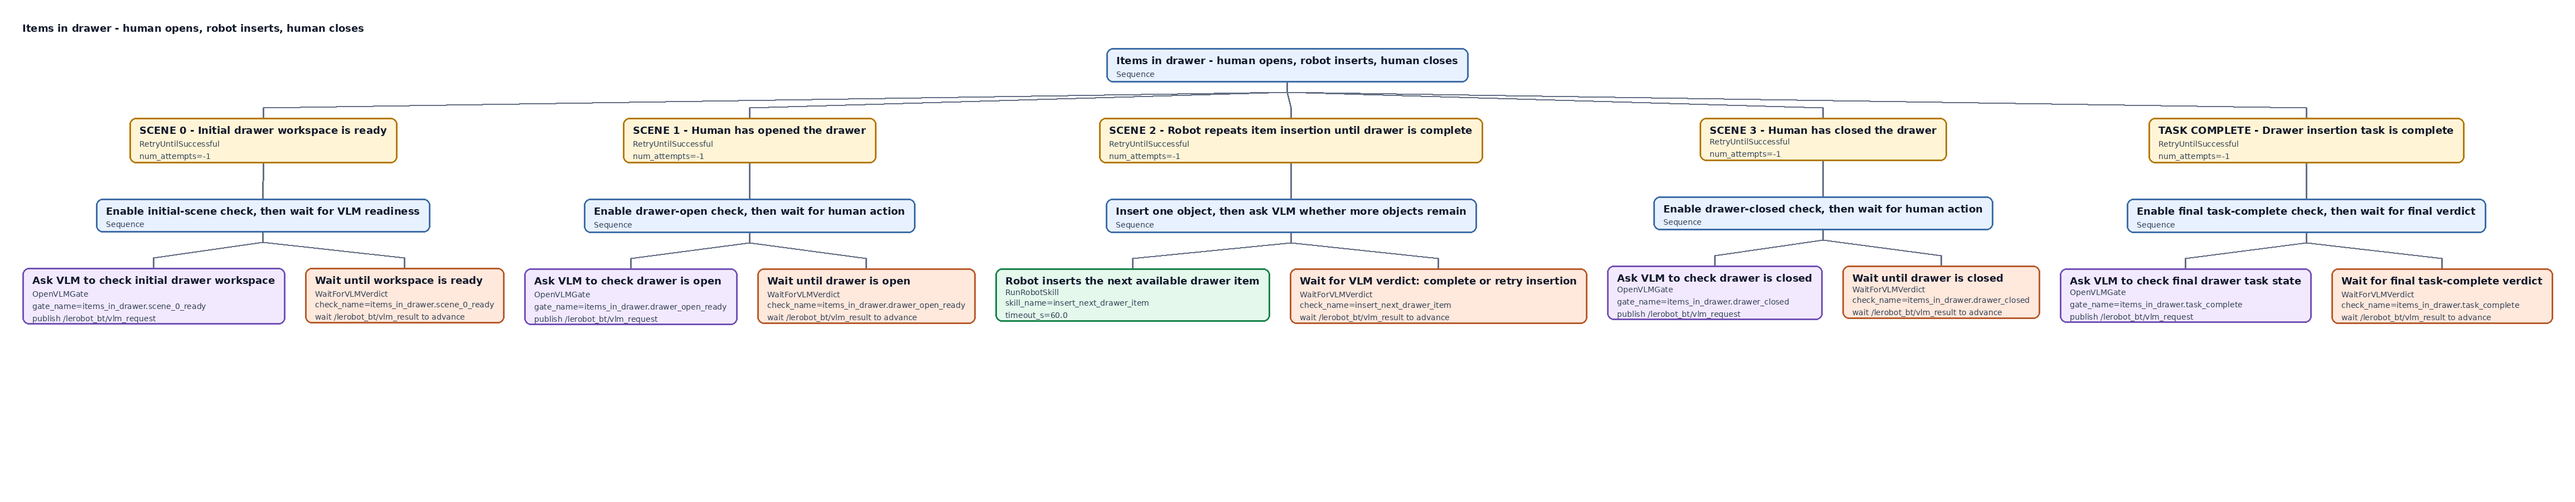
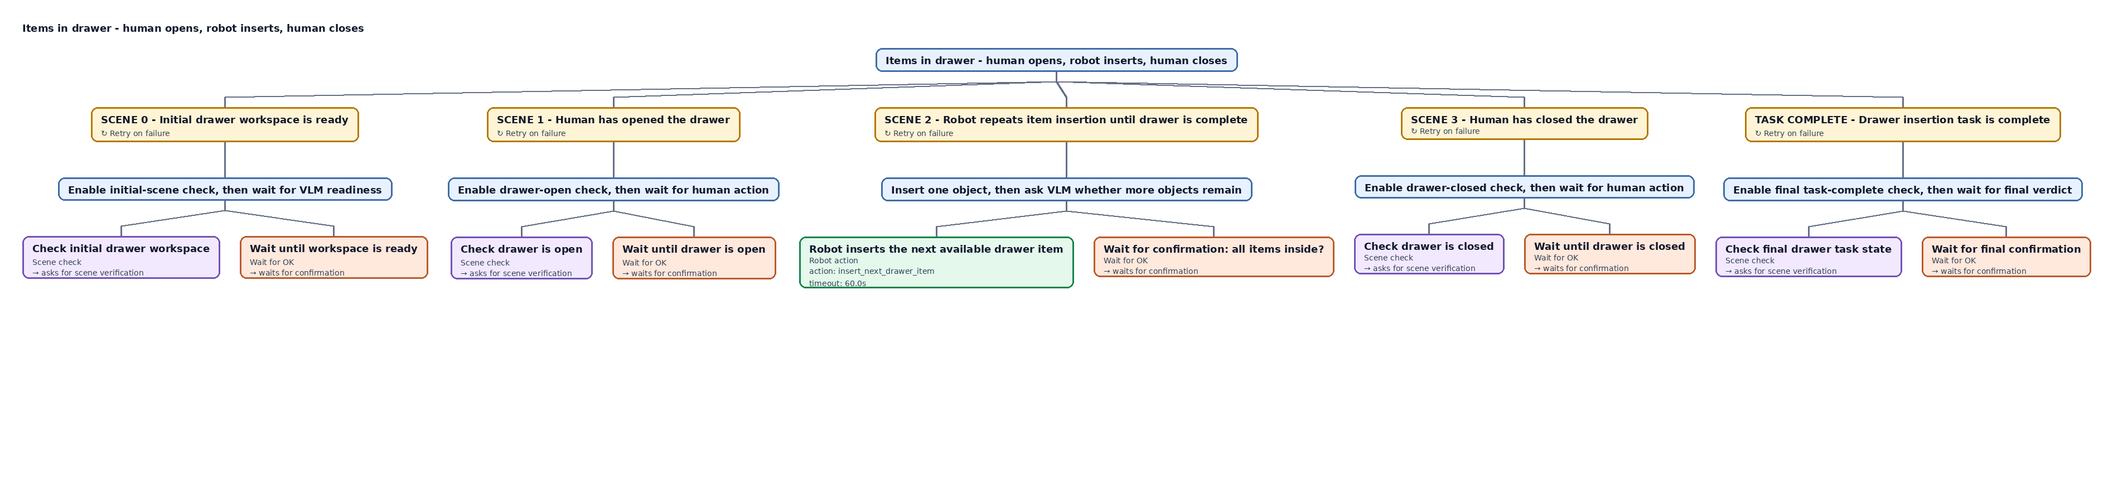
updated README.md

Changed region(s): [[0.0, 0.0933, 0.9966, 0.6533], [0.0, 0.0311, 0.1869, 0.0622]]

diff --git a/src/lerobot_bt_runtime_cpp/tools/render_bt_diagrams.py b/src/lerobot_bt_runtime_cpp/tools/render_bt_diagrams.py
@@ -36,6 +36,23 @@ NODE_STYLE = {
     "WaitForVLMVerdict": ("#ffe8dc", "#b85c2e"),
 }
 DEFAULT_STYLE = ("#f6f7f9", "#667085")
+
+# Human-friendly labels that replace technical C++ node-type names in rendered diagrams.
+TAG_HUMAN_LABEL: dict[str, str] = {
+    "Sequence": "",
+    "RetryUntilSuccessful": "↻ Retry on failure",
+    "OpenVLMGate": "Scene check",
+    "WaitForVLMVerdict": "Wait for OK",
+    "RunRobotSkill": "Robot action",
+}
+
+# Human-friendly attribute names shown in diagram nodes.
+ATTR_HUMAN_LABEL: dict[str, str] = {
+    "skill_name": "action",
+    "timeout_s": "timeout",
+    "num_attempts": "max tries",
+}
+
 BOX_RADIUS = 12
 BOX_GAP_X = 36
 BOX_GAP_Y = 64
@@ -97,18 +114,40 @@ def resolve_value(raw_value: str, profile: dict[str, str]) -> str:
 
 
 def node_lines(element: ElementTree.Element, profile: dict[str, str]) -> list[str]:
-    """Build plain-text lines shared by Graphviz and Pillow renderers."""
-    rows = [element.attrib.get("name", element.tag), element.tag]
+    """Build plain-text lines shared by Graphviz and Pillow renderers.
 
-    for key in ("skill_name", "gate_name", "check_name", "timeout_s", "num_attempts"):
-        if key in element.attrib:
-            value = resolve_value(element.attrib[key], profile)
-            rows.append(f"{key}={value}")
+    Technical C++ node-type names and ROS-specific details are replaced with
+    human-friendly labels so that every diagram reads like a natural task
+    description.
+    """
+    rows = [element.attrib.get("name", element.tag)]
 
+    # Second line: human-friendly node-type label (hidden for Sequence).
+    human_tag = TAG_HUMAN_LABEL.get(element.tag, element.tag)
+    if human_tag:
+        rows.append(human_tag)
+
+    # Show only the skill/action name (not internal gate/checkpoint keys).
+    if "skill_name" in element.attrib:
+        value = resolve_value(element.attrib["skill_name"], profile)
+        rows.append(f"action: {value}")
+
+    # Timeout – only when it carries information.
+    if "timeout_s" in element.attrib:
+        value = resolve_value(element.attrib["timeout_s"], profile)
+        rows.append(f"timeout: {value}s")
+
+    # Max attempts – skip the "-1" (infinite) placeholder.
+    if "num_attempts" in element.attrib:
+        value = resolve_value(element.attrib["num_attempts"], profile)
+        if value != "-1":
+            rows.append(f"max tries: {value}")
+
+    # Human-friendly descriptions instead of ROS topic internals.
     if element.tag == "OpenVLMGate":
-        rows.append("publish /lerobot_bt/vlm_request")
+        rows.append("→ asks for scene verification")
     if element.tag == "WaitForVLMVerdict":
-        rows.append("wait /lerobot_bt/vlm_result to advance")
+        rows.append("→ waits for confirmation")
 
     return rows
 

diff --git a/src/lerobot_bt_set_breakfast_table_README.md b/src/lerobot_bt_set_breakfast_table_README.md
@@ -87,18 +87,18 @@ ros2 topic pub --once /lerobot_bt/vlm_result std_msgs/msg/String \
   "{data: '{\"skill_name\":\"place_cup\",\"attempt_id\":0,\"status\":\"SUCCESS\",\"message\":\"cup placed\"}'}"
 ```
 
-Robot places bowl:
-
-```bash
-ros2 topic pub --once /lerobot_bt/vlm_result std_msgs/msg/String \
-  "{data: '{\"skill_name\":\"place_bowl\",\"attempt_id\":0,\"status\":\"SUCCESS\",\"message\":\"bowl placed\"}'}"
-```
-
 Human places spoon:
 
 ```bash
 ros2 topic pub --once /lerobot_bt/vlm_result std_msgs/msg/String \
   "{data: '{\"skill_name\":\"breakfast_table.spoon_ready\",\"attempt_id\":0,\"status\":\"SUCCESS\",\"message\":\"spoon placed\"}'}"
+```
+
+Robot places bowl:
+
+```bash
+ros2 topic pub --once /lerobot_bt/vlm_result std_msgs/msg/String \
+  "{data: '{\"skill_name\":\"place_bowl\",\"attempt_id\":0,\"status\":\"SUCCESS\",\"message\":\"bowl placed\"}'}"
 ```
 
 Task complete:
